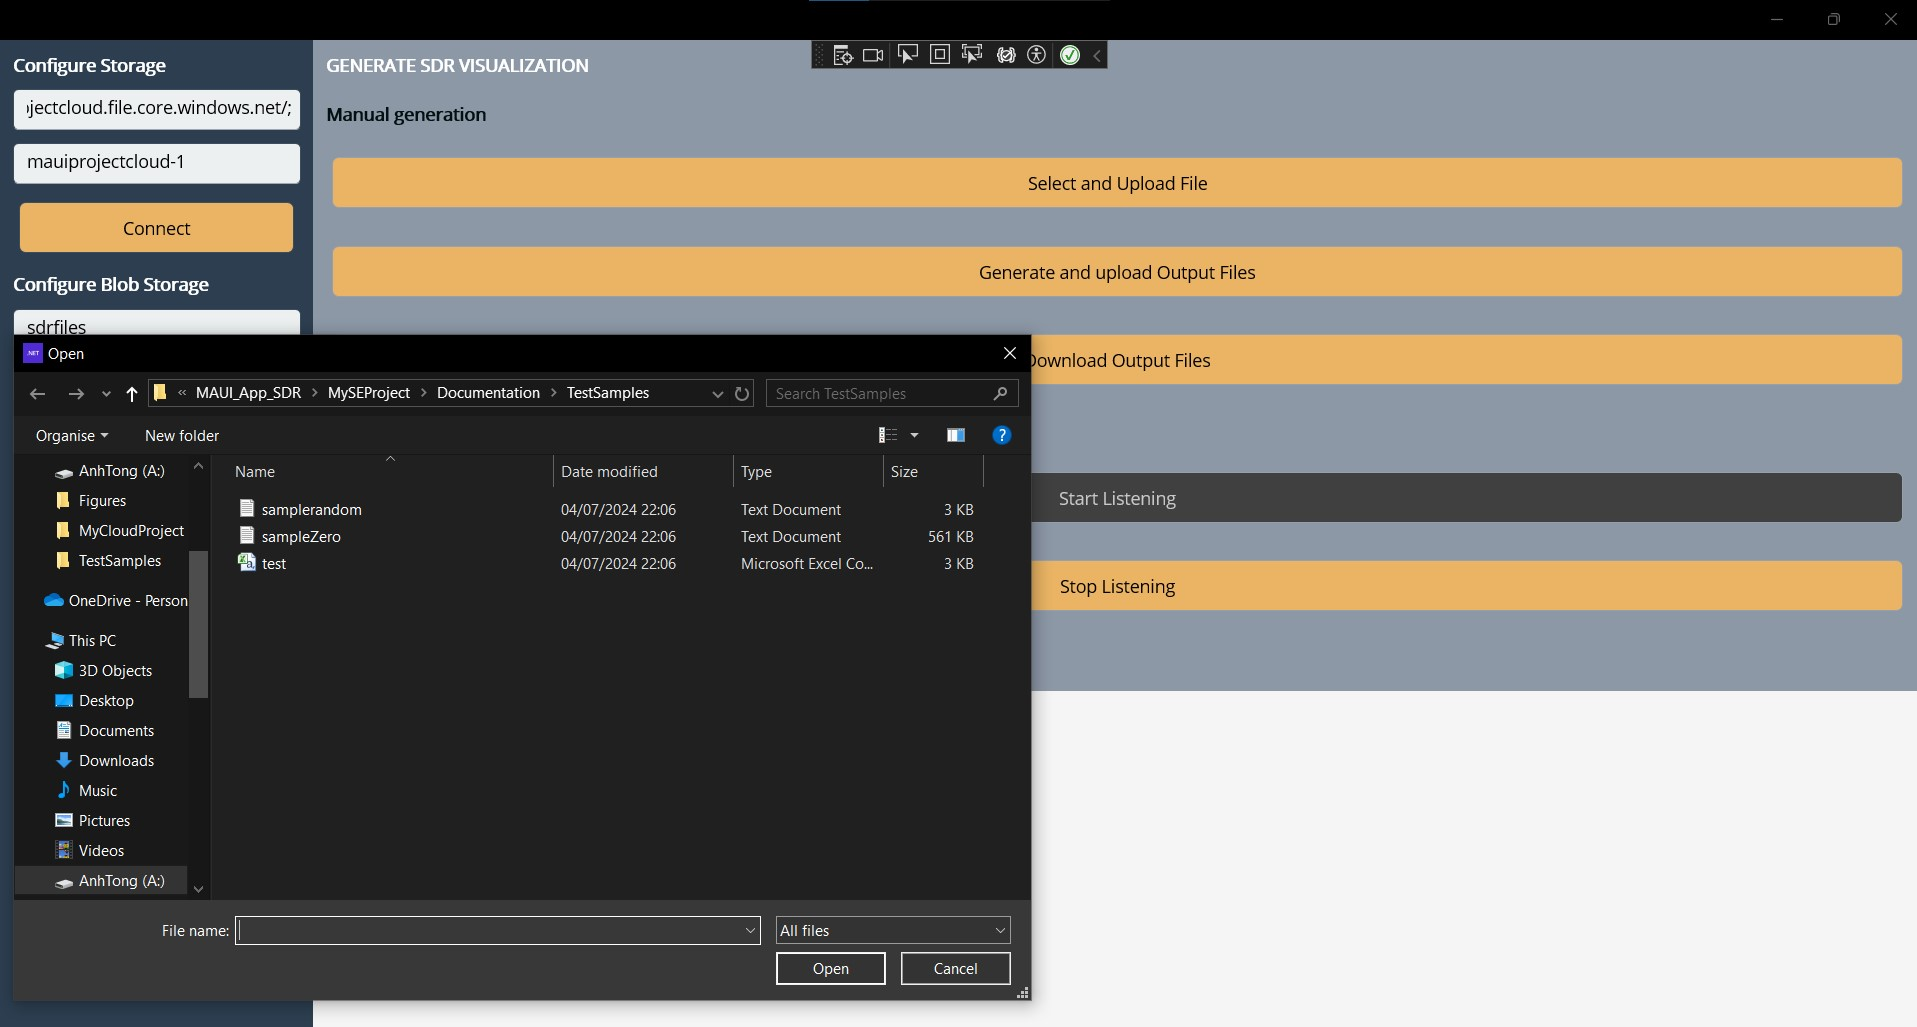
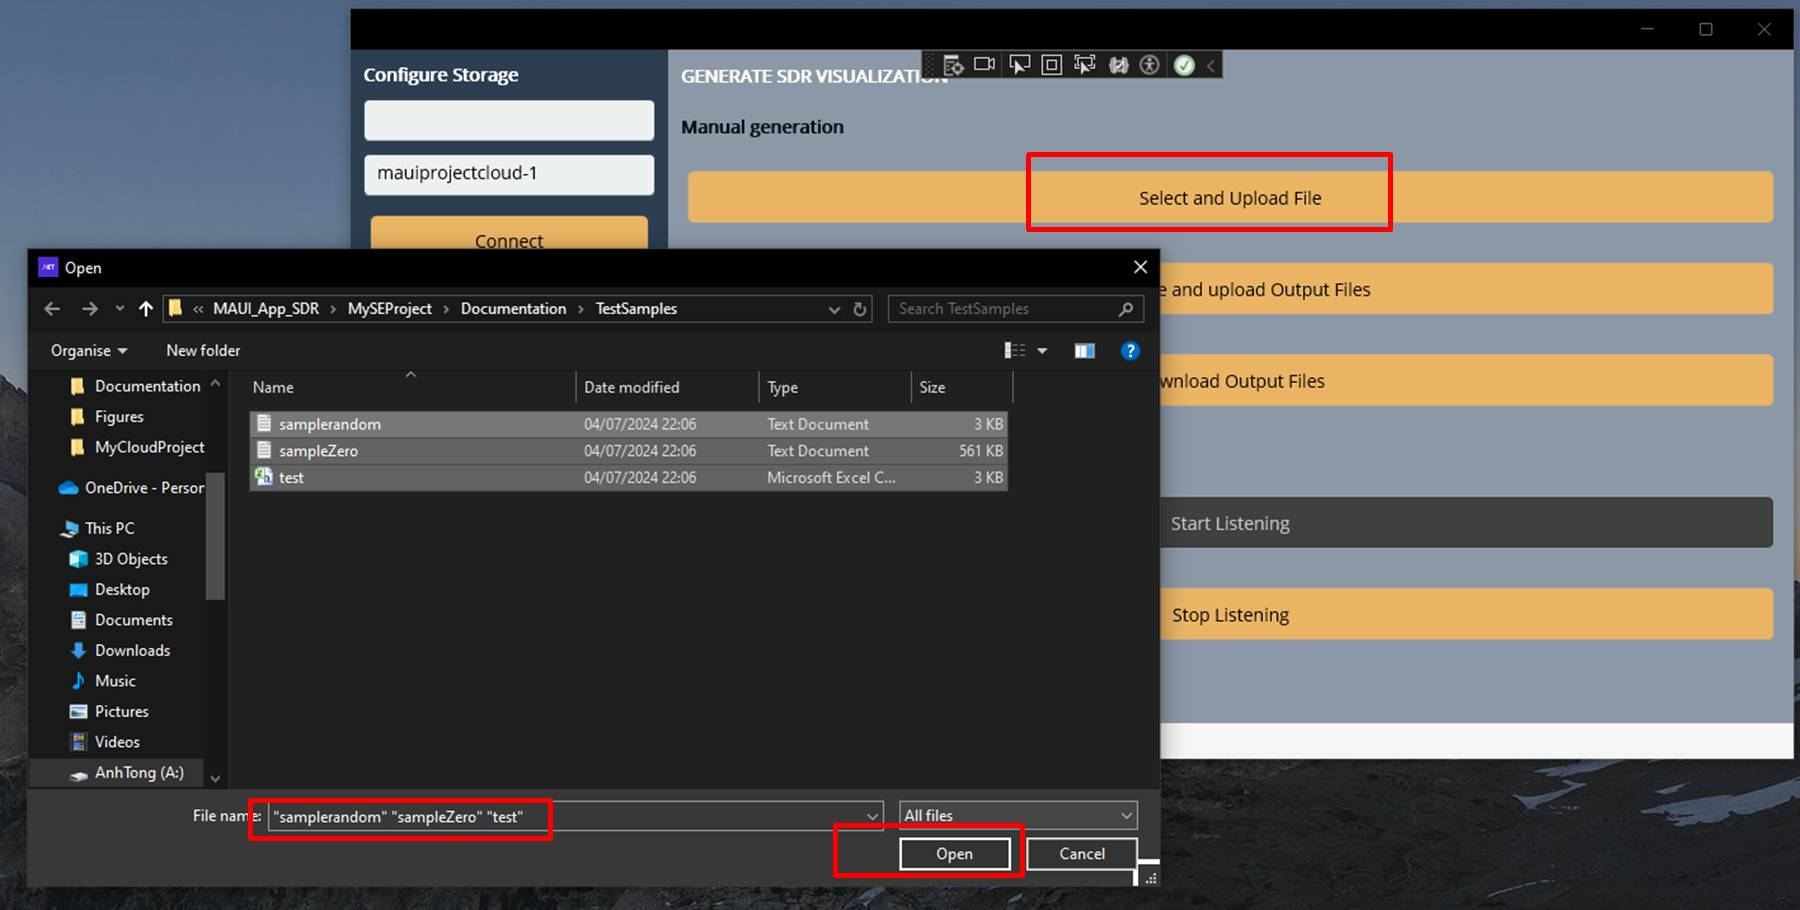
Update user manual for case 1

diff --git a/MyCloudProject/AppSDR/ViewModel/UploadViewModel.cs b/MyCloudProject/AppSDR/ViewModel/UploadViewModel.cs
@@ -166,10 +166,8 @@ namespace AppSDR.ViewModel
                 {
                     // Check if the required parameters are not null
                     bool definedParaNotNull =
-                        !string.IsNullOrEmpty(ConnectionString) &&
-                        !string.IsNullOrEmpty(TableStorageName) &&
-                        _entryCellValues != null && _entryCellValues.Length >= 7 &&
-                        !_entryCellValues.Take(7).Any(string.IsNullOrEmpty);
+                        CanExecuteCommands() &&
+                        !_entryCellValues.Take(8).Any(string.IsNullOrEmpty);
                     return definedParaNotNull;
                 });
 

diff --git a/MyCloudProject/Documentation/User Manual.md b/MyCloudProject/Documentation/User Manual.md
@@ -1,19 +1,40 @@
-# User manual for new version AppSDR
-This document provides detailed instructions for using the new version of *AppSDR* in Windows. For continuous operation, this document includes information on *Prerequisite and Installation*, *How to run*, and *Output representation* section.  Additonal information can be checked on the initial [User Manual](../../MySEProject/Documentation/UserManual.md).
+# User manual for AppSDR v2.0
+This document provides information on AppSDR v2.0 's installation and Cloud usage. AppSDR v1.0 can visualize the SDR locally without using Cloud, while in v2.0, the app inherits the v1.0 functions and implements new Cloud operating functions. In [Experiment Specification](Experiment%20Specification%20-%20Anh%20Tong%20Ngoc%20Minh%20-%20Son%20Pham%20Tien.md), there are four possible testing cases of two methods for SDR visualization using Cloud: the *Storage Account 1* and *Storage Account 2*. The two methods are manual and automatic. The corresponding table illustrates the components of the components of the possible testing cases.
+
+|Test          |Inputs               |Operation steps                          |
+|--------------|---------------------|-----------------------------------------|
+|Case 1|Connection String, Storage Name of *Storage Account 1*, two Blobs, one Table container name,  eight parameters, multiple existing SDR files (.txt, .csv)|Input parameters, Input information for *Storage Account 1*, Connect to *Storage Account 1*, Input Blobs and Table container name, Upload parameters, Choose and upload files, Generate and upload outputs|
+|Case 2|Connection String, Storage Name of *Storage Account 1*, two Blobs, one Table container name,  eight parameters, entered SDR values|Input parameters, Enter SDR values in Text Editor and Save that into a .txt file, Input information for *Storage Account 1*, Connect to *Storage Account 1*, Input Blobs and Table container name, Upload parameters, Upload the saved file, Generate and upload outputs|
+|Case 3|Connection String, Storage Name of *Storage Account 1*, two Blobs, one Table container name|Input information for *Storage Account 1*, Connect to *Storage Account 1*, Input Blobs and Table container name, Generate and upload outputs|
+|Case 4|Connection String of *Storage Account 2*, Queue Container name| Input information for MESSAGE operation, Upload MESSAGE, Start Listening mode|
+
+The structure of this User Manual is:
+
+* Prerequisite: shows the standard version of the application, and some modifications to the local Windows machine.
+* Installation: shows how to clone the Cloud Project and enable the project to be operable on the local device (device modification and necessary Nuget Packages). 
+* How to run: describes the step-by-step instructions on interactions with the AppSDR v2.0. There are some repeated steps within the four testing cases in the table; therefore, for each test, if the operation step is not mentioned, a clear description is provided, otherwise, only the operation step name is shown. Users can check the above information. The outputs are the same for all testing cases, so this part shows the process, and the next part provides all the output content.
+* Output representation: shows the visualizations on AppSDR, the Storage Containers content before and after the experiment, and local device storage.
+
 ## Table of contents
 * [Prequisite](#prequisite)
 * [Installation](#installation)
 * [How to run](#how-to-run)
-  * [Parameters and multiple SDR files](#parameters-and-multiple-sdr-files)
-  * [Parameters and text editor](#sdr-values-as-text-editor)
-  * [No uploaded parameters and files](#no-uploaded-parameters-and-files)
-  * [Message generation](#message-generation)
+  * [Case 1](#case-1)
+  * [case 2](#case-2)
+  * [Case 3](#case-3)
+  * [Case 4](#case-4)
 * [Output representation](#output-representation)
 
-## Prequisite
+## Prerequisite
 It is advised to install the most recent versions of the IDE, text editor, and MAUI as the project incorporates the most recent update. 
 * Microsoft Visual Studio Community 2022 - v17.8.6 - https://learn.microsoft.com/en-us/visualstudio/releases/2022/release-notes-v17.8 
-* .NET MAUI 8.0 - select .NET MAUI interface during Visual Studio installation. It will be automatically supported with version 17.8.6 for.NET MAUI 8.0.
+* .NET MAUI 8.0 - select .NET MAUI interface like the image below during Visual Studio installation.
+
+<div style="text-align:center">
+  <img src="./Figures/Prerequisite.jpg" title="prequisite" width=80%></img>
+</div><br>
+
+* If the system requires to update Visual Studio to the newest version, please follow that.
 
 ## Installation
 Before running the project, installation is made. To install and open the project, follow the following steps.
@@ -21,9 +42,9 @@ Before running the project, installation is made. To install and open the projec
 ```
 git clone https://github.com/tongngocminhanh/MAUI_App_SDR.git
 ```
-* Second, navigate the solution directory of the app. The solution is located on *\local directory\MAUI_App_SDR\MySEProject*. 
-* Open *MySampleProject.sln* with Visual Studio.
-* To run or build the app with Visual Studio on a Windows device, create a folder named *Properties* and include the *launchSetting.json* file, content as follows.
+* Second, navigate the solution directory of the app. The solution is located on *\local directory\MAUI_App_SDR\MyCloudProject*. 
+* Open *MyCloudProject.sln* with Visual Studio.
+* To run or build the app with Visual Studio on a Windows device, create a folder named *Properties* under *\local directory\MAUI_App_SDR\MyCloudProject\AppSDR* and include the *launchSettings.json* file, content as follows.
 
 ```json
 {
@@ -35,58 +56,127 @@ git clone https://github.com/tongngocminhanh/MAUI_App_SDR.git
     }
 }
 ```
+
+* The result should looks like the image. This step enables the Windows mode, so users can operate AppSDR v2.0 on Windows local device.
+
+<div style="text-align:center">
+  <img src="./Figures/Installation.png" title="installation" width=80%></img>
+</div><br>
+
+* There might be some Nuget packages on your device not up-to-date. Therefore, open the manager by right-clicking the *AppSDR* on Visual Studio, and choose *Manage the NuGet Package*. Then update all the installed packages. 
+
+<div style="text-align:center">
+  <img src="./Figures/UpdateNuGet.png" title="update-nuget-packages" width=80%></img>
+</div><br>
+
+* Users should check the Developer mode, ensure that it is turned on.
+
+<div style="text-align:center">
+  <img src="./Figures/developer.png" title="developer-mode" width=80%></img>
+</div><br>
+
 Now, the app is ready to run.
 
 ## How to run
-AppSDR has two stages of running: Without- and With-Cloud. This document specifies the With-Cloud method, as the Without-Cloud one remains unchanged. After the installation step, the following screen is shown when opening the solution file. Because of the *launchSetting.json*, a state of *Windows Machine* is available for debugging. 
+As mentioned, there are four cases described in this document. All cases start with the same opening step. When clicking the *Windows Machine* button, the AppSDR is loaded and the *Main Page* is shown.
 
 <div style="text-align:center">
   <img src="./Figures/Debug.png" title="start-debugging" width=80%></img>
 </div><br>
 
-When clicking the *Windows Machine* button, the AppSDR is loaded and the *Main Page* is shown. For Cloud-relevant functions, consider from the label *Manually add SDR values* downward.
+When clicking the *Windows Machine* button, the AppSDR is loaded and the *Main Page* is shown. For Cloud-relevant functions, care from the label *Manually add SDR values* downward.
 
 <div style="text-align:center">
   <img src="./Figures/MainPage.jpg" title="main-page-representation" width=80%></img>
 </div><br>
 
-* The *Add Text* button is invalid as the parameters table above is empty. make sure to enter ALL the entities in the table to enable this button.
-* The *Cloud configuration* button is clickable whether the parameters are given or not. The differences are mentioned in the test cases below. 
-* The *Message Configuration* has three text editor spaces to handle text inputs. Only when the three blocks are not empty, can the *Upload Message* be functional.
+We can see from the *Main Page*:
+* The *Table Entry* has eight blank spaces, corresponding to the eight parameters we need for our operation: Graph Name, Max Cycles, Highlight Touch, X-Axis Title, Y-Axis Title, Min Range, and Max Range. We should be careful that Max Cycles, Highlight Touch, Min Range, and Max Range contain numbers only, while the rest can be in number or text form.
 
-### Parameters and multiple SDR files
-This case requires input parameters and multiple SDR files. Therefore, users enter eight table entities and click *Cloud Configuration* to navigate to *Upload Page*. The parameters are passed to *Upload Page*.
+* The *Add Text* button is invalid as the parameters table above is empty. make sure to enter ALL the entities to enable this button.
 
-* When *Upload Page* is up, Cloud information can be defined here.
-* As the app does not connect to Storage Account yet, the buttons *Manual generation* are not valid.
+* The *Cloud configuration* button is clickable whether the parameters are given or not, we can see the differences in Case 1 and Case 3.
+
+* The *Message Configuration* has three text editor spaces to handle text inputs, applied in Case 4. Only when the three blocks are not empty, can we click the *Upload Message* button.
+
+The outputs of all cases have the same form, so they will be separately discussed in [Output Representation](#output-representation), not in the case sections.
+
+### Case 1
+**Input parameters**: First, we enter the table entities, the following is the example for the parameters. For the number type entities, try to apply the low value for *Min range*, and high values for *Max cycles, Max range*, so most Input SDR values can fit in the constraint. 
+
+```
+Graph name: Sample graph
+Max cycles: 1500
+Highlight touch: 3
+X axis title: SDR columns
+Y axis title: SDR values
+Min range of cell: 0
+Max range of cell: 10000
+Saved figure name: SavedSDR
+```
+
+Then we click the *Cloud configuration* button and move to *Upload Page*.
+
+<div style="text-align:center">
+  <img src="./Figures/AfterParameterCloud.png" title="after-enter-parameters-to-cloud" width=80%></img>
+</div><br>
+
+Now, we are on the *Upload Page*. We can see, there are two parts: the left side and the right side. The left side has blank editors and buttons, while the right side has buttons only. The grey buttons are not accessible as their operating conditions are missed. The yellow buttons are clickable.
 
 <div style="text-align:center">
   <img src="./Figures/UploadPageNoPara.jpg" title="upload-page-no-parameters" width=80%></img>
 </div><br>
 
-* When enter the Storage Account information and click "Connect, a status message on the left appeears. At the same time, the "Manual generation" functions are proccessable.
+Then, the next operation steps are illustrated.
+
+**Input information for Storage Account 1**:  *Configure Storage* part has two editors to hold the Connection String and the Storage Name. We enter the two editors with the content only, without blank space or Enter key.The sample is 
+
+```
+Storage account 1
+- Connection String: DefaultEndpointsProtocol=https;AccountName=mauiprojectcloud;AccountKey=gDYct5X+8L0wUco6yIYFSvfdh/1UbwYmAAashjpETQ1czbYjS/1dtdgdhW0pjOlQoqmWqbAbXslb+AStiMasTw==;BlobEndpoint=https://mauiprojectcloud.blob.core.windows.net/;QueueEndpoint=https://mauiprojectcloud.queue.core.windows.net/;TableEndpoint=https://mauiprojectcloud.table.core.windows.net/;FileEndpoint=https://mauiprojectcloud.file.core.windows.net/;
+
+- Storage Account Name: mauiprojectcloud-1
+```
+
+**Connect to Storage Account 1**: we can connect to *Storage Account 1* by clicking *Connect*. We will see on the left side, there is a red status showing that AppSDR has connected to *Storage Account 1*, and the *Upload defined parameters* button turns yellow. While on the right side, the upper three buttons turn yellow. 
 
 <div style="text-align:center">
-  <img src="./Figures/UploadPara.jpg" title="upload-page" width=80%></img>
+  <img src="./Figures/ConnectToStorage.png" title="connect-to-storage" width=90%></img>
 </div><br>
 
-* For parameters upload, *Configure Blob Storage* should be fully filled out. After that, *Upload defined parameters* is clickable.
-* Upload the parameters by clicking that button. The status message is updated with successful notification.
+**Input Blobs and Table container name**: next, we enter the *Configure Blob Storage* editors with values:
+
+```
+SDR values Blob Name: sdrfiles
+Outputs Blob Name: saveoutput
+Table Storage Name: parameters
+```
+**Upload parameters**: by clicking *Upload defined parameters*, the status updates with the successful notification. The eight parameters are uploaded to the Table Container.
 
 <div style="text-align:center">
-  <img src="./Figures/ParaConnect.jpg" title="upload-parameters" width=80%></img>
+  <img src="./Figures/ParaConnect.png" title="upload-parameters" width=80%></img>
 </div><br>
 
-* Then, user should choose the inputs files by clicking "Select and Upload File".
-* AppSDR will access the local device memory, pop up the choosing screen, and allow the user to choose multiple file. The file extension of ".txt, .csv" is supported, so on the screen, only text files and csv files are shown. After choosing the files, the pop-up screen is automatically closed.
+**Choose and upload files**: then, we choose the input files by clicking the "Select and Upload File" button. The AppSDR will access the local device memory, pop up the choosing screen, and allow the user to choose multiple files. The file extension ".txt, .csv" is supported, so only .txt and .csv files are shown on the screen. This experiment takes the sample files from [TestSamples](../Documentation/TestSamples/), having two .txt files - [samplerandom.txt](../Documentation/TestSamples/samplerandom.txt) and [sampleZero](../Documentation/TestSamples/sampleZero.txt), and a .csv file - [sampleSheet](../Documentation/TestSamples/sampleSheet.csv). The content contains numbers and rows of numbers. Each number presents the SDR values separated by "," for .txt files, or column for .csv files. Each row presents an SDR column, a collection of SDR values. Here is a simple example of the .txt file content.
+
+```
+1541, 6, 12, 2573, 1044, 1557, 3608, 1049, 3503, 3619, 3590, 2605, 3630, 2609
+2560, 2565, 2568, 524, 2077, 1568, 2088, 1066, 1287, 49, 51, 3126, 2618, 3138
+```
+
+After selecting the needed files, we click *Open* on the pop-up screen, it is automatically closed. The left status updates with successful notification.
 
 <div style="text-align:center">
   <img src="./Figures/ChooseFiles.jpg" title="choose-files" width=80%></img>
 </div><br>
 
-* Finally, the "Generate and upload Output Files" is chosen. Wait for the output generation.
+**Generate and upload outputs**: finally, the "Generate and upload Output Files" button is clicked. We will wait for the output generation. Check [Output Representation](#output-representation) for details.
 
-### Parameters and text editor
+<div style="text-align:center">
+  <img src="./Figures/Generate.png" title="generate-output" width=80%></img>
+</div><br>
+
+### Case 2
 This test case is triggered when all the table entities are full. Then the "Add Text" button is accessible.
 * Click the "Add Text" button and move to *Text Editor Page*.
 <div style="text-align:center">

diff --git a/MyCloudProject/Documentation/Experiment Specification - Anh Tong Ngoc Minh - Son Pham Tien.md b/MyCloudProject/Documentation/Experiment Specification - Anh Tong Ngoc Minh - Son Pham Tien.md
@@ -69,7 +69,7 @@ Microsoft Azure is an open and flexible cloud-computing platform. The scope of t
 AppSDR is operated locally, not dockerized, to receive the user's input interaction. The app accesses the specific cloud storage and saves the user's input. The SDR representation is saved on the storage and can be downloaded to the local machine.
 
 ## Overview of the Cloud Architecture
-The Cloud project combines the AppSDR v2.0 functionalities and Azure Cloud storage ability; therefore, this section provides the Cloud Architecture to describe the combination and how the AppSDR works with the Cloud. There are three diagrams to be described: the connection, manual operation, and automatic operation method.
+The Cloud project combines the AppSDR v2.0 functionalities and Azure Cloud storage ability; therefore, this section provides the Cloud Architecture to describe the combination and how the AppSDR works with the Cloud. There are three diagrams to be described: the connection, manual operation, and automatic operation methods.
 
 ### Connections and Elements 
 
@@ -79,7 +79,14 @@ The Azure Cloud is the new implementation in this project, so the connections am
   <img src="./Figures/ConnectionAndElements.png" title="connection-cloud-architecture" width=80%></img>
 </div><br>
 
+There are three main participants in the Cloud Project: users, AppSDR v2.0, and Azure Cloud. AppSDR acts as the bridge between users and Cloud Storage. Depending on the users' inputs and commands, AppSDR accesses the Azure Cloud, and uploads or retrieves data from the Cloud Containers. The two-way arrows show that data is possibly transmitted back and forth between two elements. The diagram shows two Storage Accounts in the project, but users can consider *Storage Account 1* as 2. They can upload to and listen to MESSAGE in the *Storage Account 1* Queue.
 
+* *Storage Account 1* attends to both generation methods, as its containers hold the input values and outputs of the SDR visualization process. 
+    - The *SDR files Blob* contains .txt/.csv files having the SDR values. 
+    - The *Parameters Table* has the defined entities. Each entity has 11 properties. The first three are system properties specifying a partition key, a row key, and a timestamp. The rest are the eight parameters the user defines for the SDR visualization function: Graph Name, Max Cycles, Highlight Touch, X-Axis Title, Y-Axis Title, Min Range, and Max Range. 
+    - The *Output Blob* stores the output images.
+
+* *Storage Account 2* is used in the automatic method, having one Queue Container.  The *MESSAGE Queue* stores the JSON message text - Connection String to *Storage Account 1*, the two Blobs, and the Table names. The MESSAGE is uploaded by the users to the Queue.
 
 ### Manual method
 The Cloud Architecture describes the relationship among the object-based Cloud storages. The figure has green components illustrating the manual generation, and the orange ones for automatic generation.
@@ -316,7 +323,7 @@ AppSDR v2.0 is tested with its Cloud properties in this section. As mentioned, a
 3. Case 3: is suggested if all the SDR files Blob, and Parameters Table are not empty. The user has to configure only the information for Cloud accession. The process is made step by step.
     * Inputs: Connection String and Storage Name of *Storage Account 1*, two Blobs, one Table container name.
 4. Case 4: is similar to case 3 in conditions, but different in the inputs and the process. Users upload a MESSAGE to a Queue Container. When they start listening to the MESSAGE in Queue, the process runs and provides the outputs, without any extra actions.
-    * Inputs: Connection String of *Storage Account 1* and Queue Container name, MESSAGE content, and listening mode.
+    * Inputs: Connection String of *Storage Account 2* and Queue Container name, MESSAGE content, and listening mode.
 
 Other possibilities can be made by combining manual and automatic methods. For example: MESSAGE is used even when SDR files Blob and Parameters Table are empty. Users upload the MESSAGE but snooze the listening mode. Then they connect to *Storage Account 1* and configure the Container content. Now the containers are not empty, start the listening mode. This case is not described in this document.
 
